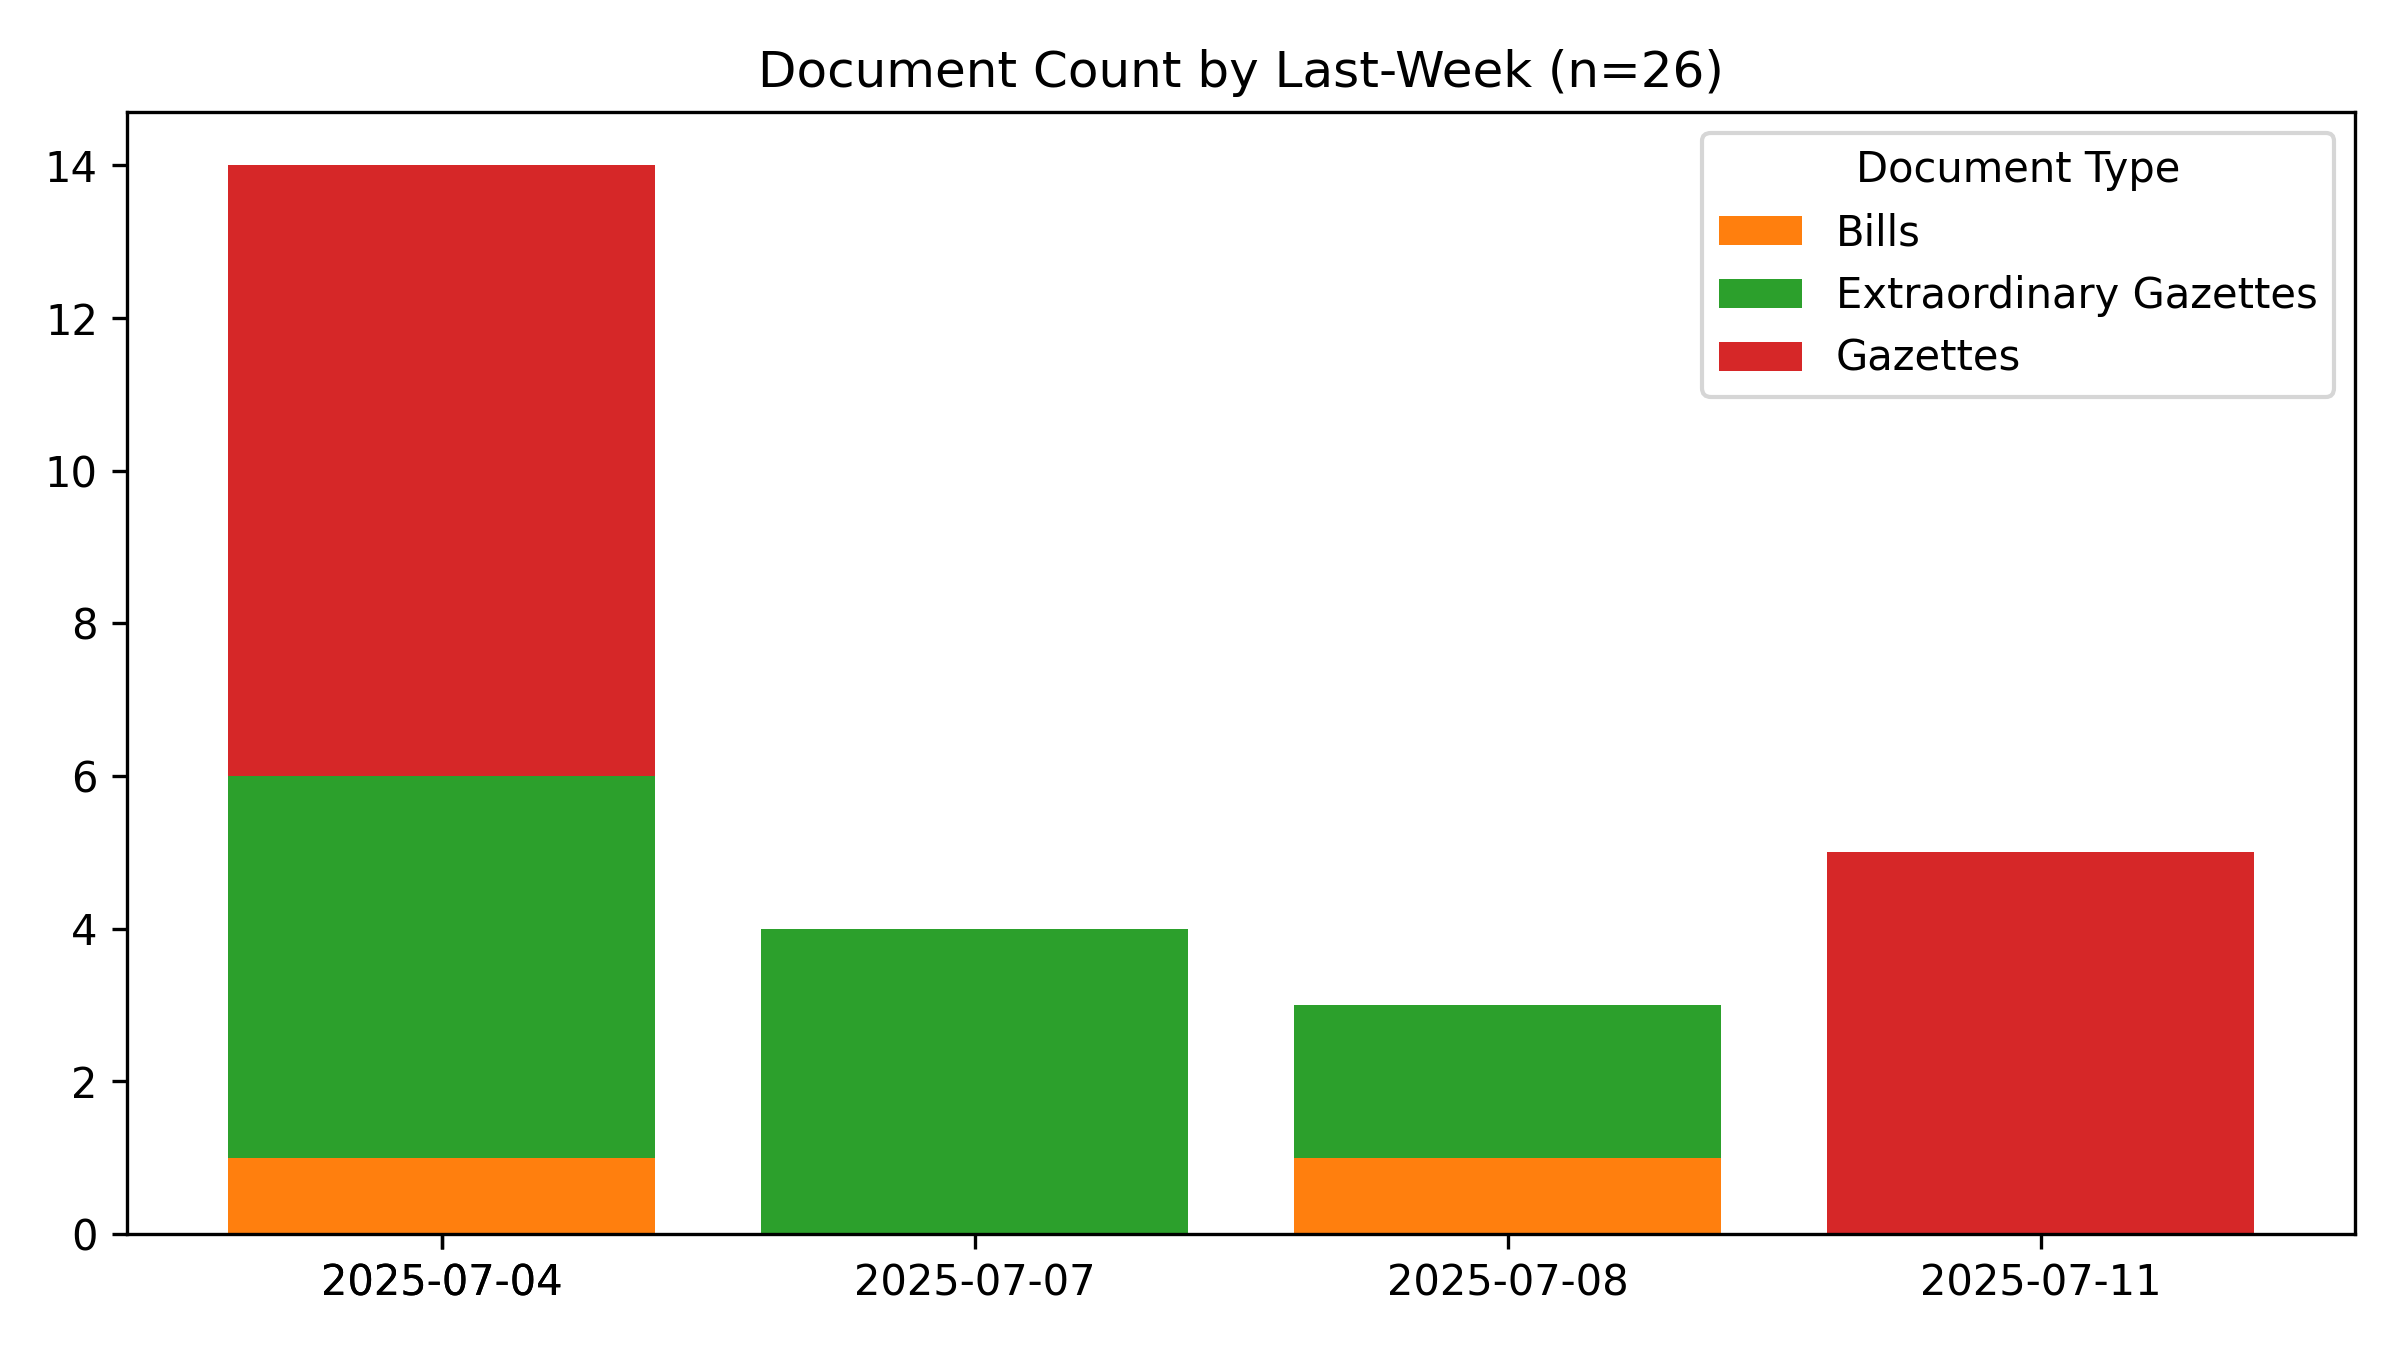
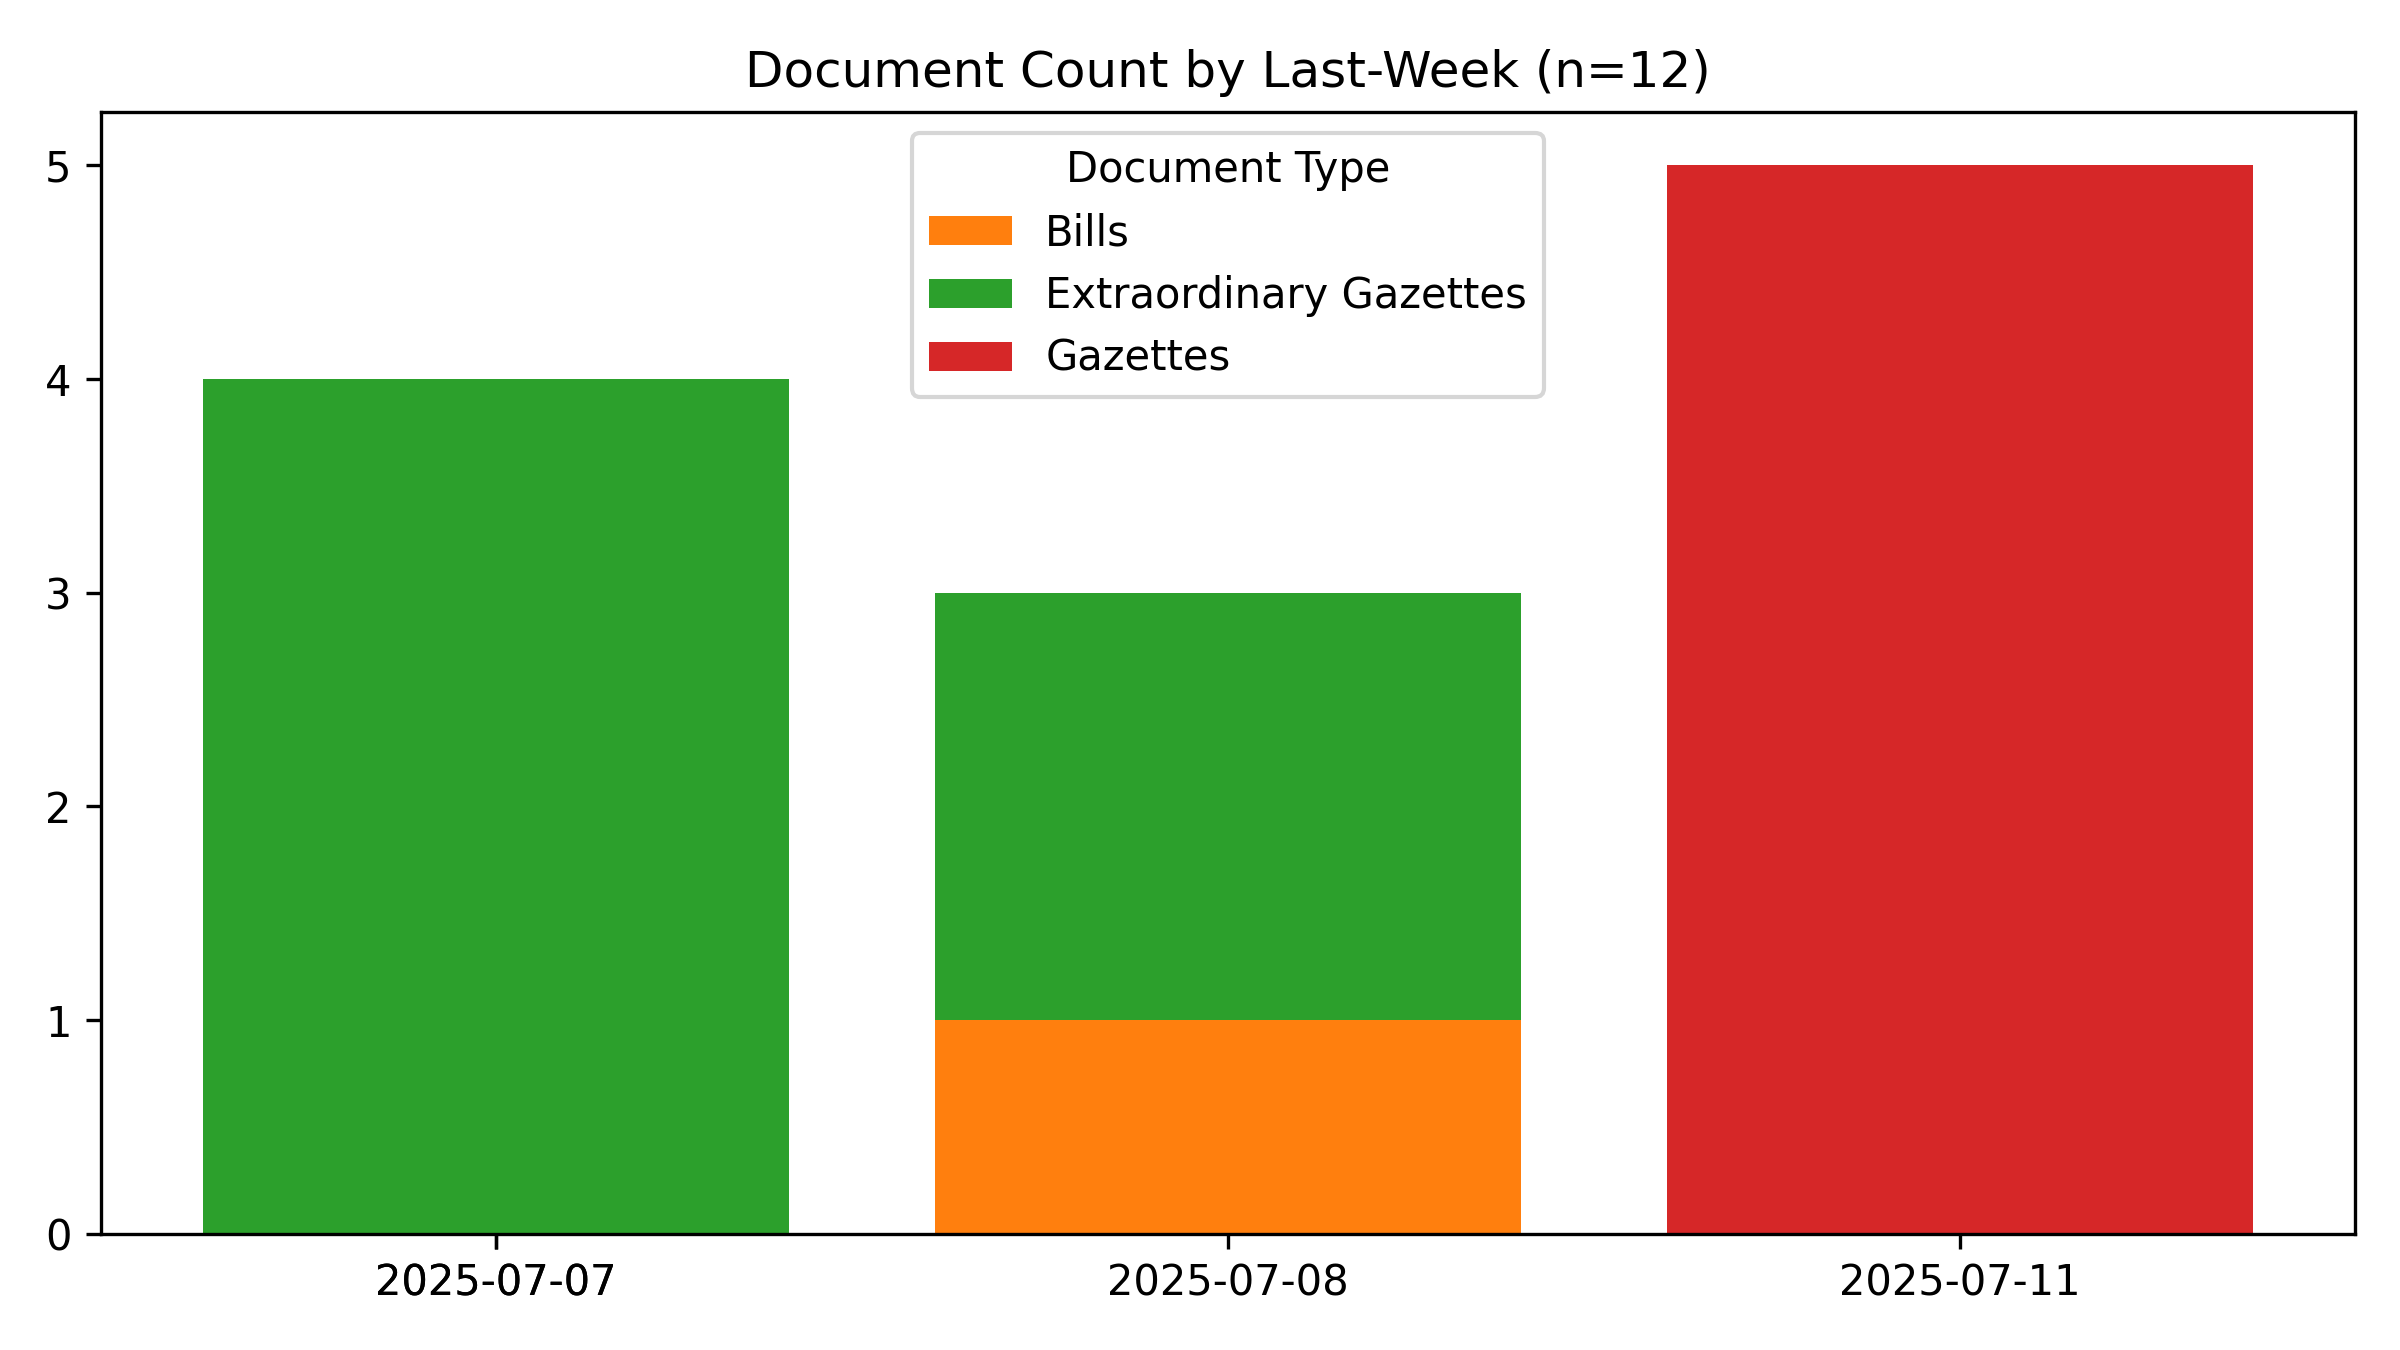
🤖 [data_scraper.yml] 2025-07-12-0009

diff --git a/README.md b/README.md
@@ -1,6 +1,6 @@
 # #SriLanka 🇱🇰 - Legal Documents #Dataset
 
-*Last Updated **2025-07-12 05:20:22**.*
+*Last Updated **2025-07-12 05:39:40**.*
 
 **43,977** documents (40.9 MB), from 1981-01-22 to 2025-07-11.
 
@@ -16,7 +16,7 @@ A collection of 📢 Gazettes, 🚨 Extraordinary Gazettes, 🏛 Acts, ✍
 
 #Legal #OpenData #GovTech
 
-📄 Currently, 17,384 PDFs (8.6 GB) for **6,323** documents (14.4%) have been downloaded. Final data size is estimated to be ~60 GB.
+📄 Currently, 17,343 PDFs (8.6 GB) for **6,297** documents (14.3%) have been downloaded. Final data size is estimated to be ~60 GB.
 
 ## 🆕 The Legal Documents App
 
@@ -45,7 +45,7 @@ For best results, use a desktop browser.
 
 ## Recent Documents (Published during the last 7 days)
 
-**26** Documents
+**12** Documents
 
 - 📢 [2025-07-11] [Land Section](https://github.com/nuuuwan/lk_legal_docs_data/tree/main/data/gazettes/2025/2025-07-11-land-section)
 - 📢 [2025-07-11] [IV (B) - Local Government](https://github.com/nuuuwan/lk_legal_docs_data/tree/main/data/gazettes/2025/2025-07-11-iv-b-local-government)
@@ -59,17 +59,3 @@ For best results, use a desktop browser.
 - 🚨 [2025-07-07] [Elections Commission - Declare Elected as a Member of Parliament under Article 99A of the Constitution (Elected Mr. U.D.N. Jayaweera as a Member of the Tenth Parliament)](https://github.com/nuuuwan/lk_legal_docs_data/tree/main/data/extra-gazettes/2025/2444-07)
 - 🚨 [2025-07-07] [Election Commission - Local Authorities Elections Ordinance (Chapter 262) - Notice under Section 66 (2) "Elected to the Members of Akmeemana P.S and Bandarawela P.S](https://github.com/nuuuwan/lk_legal_docs_data/tree/main/data/extra-gazettes/2025/2444-02)
 - 🚨 [2025-07-07] [Sri Lanka Customs - Rates of Exchange with effect from 07.07.2025 to 13.07.2025](https://github.com/nuuuwan/lk_legal_docs_data/tree/main/data/extra-gazettes/2025/2444-01)
-- ✍ [2025-07-04] [Land Development (Amendment) - GS](https://github.com/nuuuwan/lk_legal_docs_data/tree/main/data/bills/2025/617-2025)
-- 🚨 [2025-07-04] [2443/70](https://github.com/nuuuwan/lk_legal_docs_data/tree/main/data/extra-gazettes/2025/2443-70)
-- 🚨 [2025-07-04] [Election Commission - Elected Chairman and Vice Chairman of 03 Local Government Institutions in Western Province](https://github.com/nuuuwan/lk_legal_docs_data/tree/main/data/extra-gazettes/2025/2443-61)
-- 🚨 [2025-07-04] [Election Commission - Local Authorities Elections Ordinance (Chapter 262) Notice under Section 66(2) Elected to the Members of Biyagama, Weraketiya and Thalawa P.S](https://github.com/nuuuwan/lk_legal_docs_data/tree/main/data/extra-gazettes/2025/2443-60)
-- 🚨 [2025-07-04] [Department of Local Government - Norther Province - Elected Mayor, Deputy Mayor, Chairman and Vice Chairman in the 1st Meeting of Local Authorities in Norther Province](https://github.com/nuuuwan/lk_legal_docs_data/tree/main/data/extra-gazettes/2025/2443-58)
-- 🚨 [2025-07-04] [Central Bank of Sri Lanka - Appointment of an Administrator to Nation Lanka Finance PLC](https://github.com/nuuuwan/lk_legal_docs_data/tree/main/data/extra-gazettes/2025/2443-57)
-- 📢 [2025-07-04] [Legal Section](https://github.com/nuuuwan/lk_legal_docs_data/tree/main/data/gazettes/2025/2025-07-04-legal-section)
-- 📢 [2025-07-04] [Land Section](https://github.com/nuuuwan/lk_legal_docs_data/tree/main/data/gazettes/2025/2025-07-04-land-section)
-- 📢 [2025-07-04] [IV (B) - Local Government](https://github.com/nuuuwan/lk_legal_docs_data/tree/main/data/gazettes/2025/2025-07-04-iv-b-local-government)
-- 📢 [2025-07-04] [IV (A) - Provincial Councils](https://github.com/nuuuwan/lk_legal_docs_data/tree/main/data/gazettes/2025/2025-07-04-iv-a-provincial-councils)
-- 📢 [2025-07-04] [(III) - TRADE MARKS AND PATENT NOTICES](https://github.com/nuuuwan/lk_legal_docs_data/tree/main/data/gazettes/2025/2025-07-04-iii-trade-marks-and-patent-notices)
-- 📢 [2025-07-04] [(IIB) - Advertising](https://github.com/nuuuwan/lk_legal_docs_data/tree/main/data/gazettes/2025/2025-07-04-iib-advertising)
-- 📢 [2025-07-04] [(IIA) - Advertising](https://github.com/nuuuwan/lk_legal_docs_data/tree/main/data/gazettes/2025/2025-07-04-iia-advertising)
-- 📢 [2025-07-04] [(I) - General](https://github.com/nuuuwan/lk_legal_docs_data/tree/main/data/gazettes/2025/2025-07-04-i-general)
